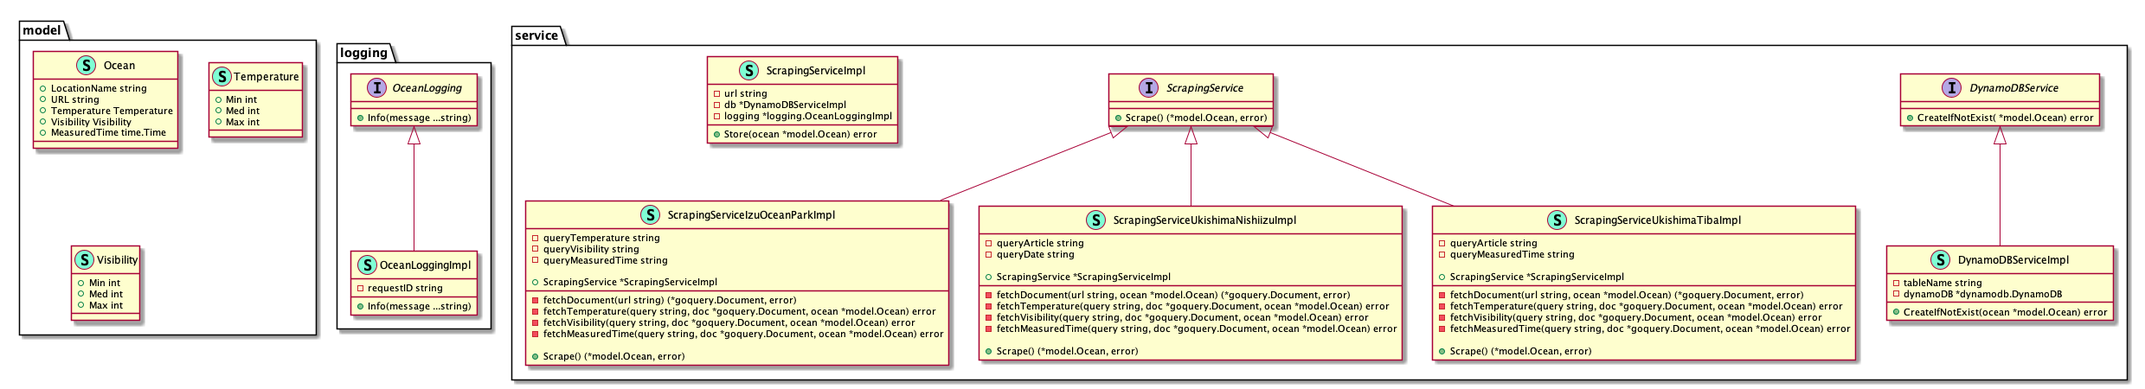
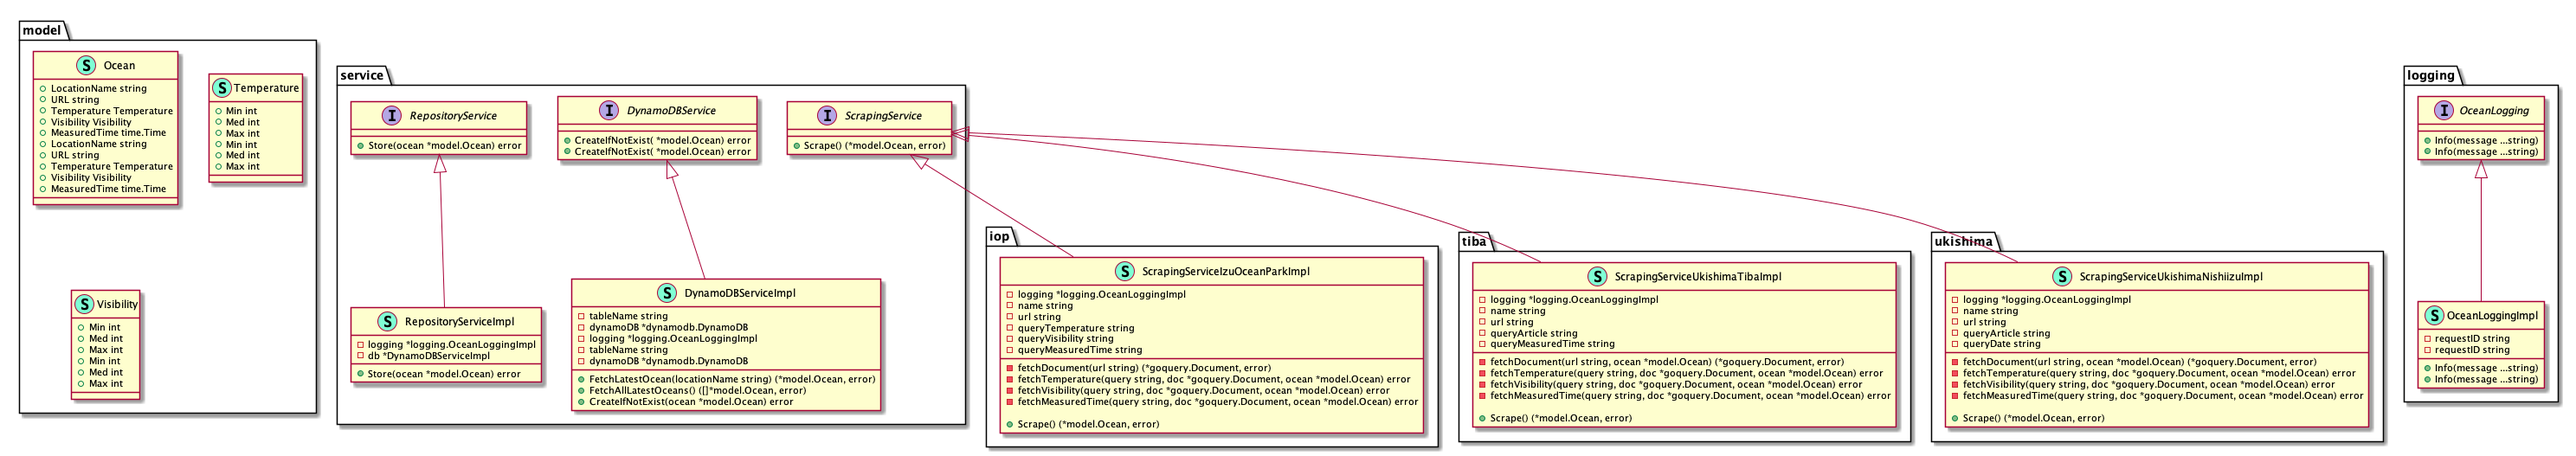
refactor: package分割

diff --git a/functions/scraping/service/scraping.go b/functions/scraping/service/scraping.go
@@ -1,29 +1,10 @@
 package service
 
 import (
-	"scraping/logging"
 	"scraping/model"
 )
 
 // ScrapingService ...
 type ScrapingService interface {
 	Scrape() (*model.Ocean, error)
-}
-
-// ScrapingServiceImpl ...
-type ScrapingServiceImpl struct {
-	logging *logging.OceanLoggingImpl
-	db      *DynamoDBServiceImpl
-}
-
-// Store ...
-func (s *ScrapingServiceImpl) Store(ocean *model.Ocean) error {
-	s.logging.Info("データの永久保存開始", ocean.LocationName)
-	err := s.db.CreateIfNotExist(ocean)
-	if err != nil {
-		s.logging.Info("データの永久保存に失敗")
-		return err
-	}
-	s.logging.Info("データの永久保存終了", ocean.LocationName)
-	return nil
 }
